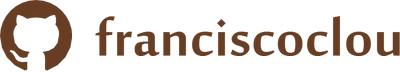
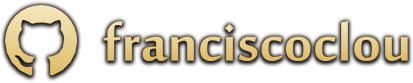
Make the cheats screen signature gold again
Builds before the ui_assets dependency fix shipped an older gold
watermark; the committed one was flat ink. Back to the game's title
style: gradient, outline and shadow.

diff --git a/scripts/make_ui_art.py b/scripts/make_ui_art.py
@@ -321,16 +321,31 @@ def github_mask(px):
 
 
 def watermark():
-    """In the ink of the parchment it sits on (the shop's item scroll)."""
+    """Gold like the game's own titles: gradient, dark outline, drop shadow."""
     mark_px, text_px = 72, 70
-    t = text("franciscoclou", text_px, INK, shadow=False)
-    mark = Image.new("RGBA", (mark_px, mark_px), INK + (255,))
-    mark.putalpha(github_mask(mark_px))
-    w = mark_px + 16 + t.width
-    h = max(mark_px, t.height)
+    t = text("franciscoclou", text_px, CREAM, gradient=GOLD)
+    m = github_mask(mark_px)
+    pad = max(3, mark_px // 10)
+    mark = Image.new("RGBA", (mark_px + 2 * pad, mark_px + 2 * pad))
+    o = Image.new("L", mark.size)
+    o.paste(m, (pad, pad))
+    o = o.filter(ImageFilter.MaxFilter(3)).filter(ImageFilter.GaussianBlur(mark_px / 40))
+    sh = Image.new("RGBA", mark.size, SHADOW + (0,))
+    sh.putalpha(o.point(lambda v: int(v * 0.9)))
+    mark.alpha_composite(sh, (0, 0))
+    mark.alpha_composite(sh, (0, max(1, mark_px // 30)))
+    fill = Image.new("RGBA", (mark_px, mark_px))
+    d = ImageDraw.Draw(fill)
+    for y in range(mark_px):
+        k = y / (mark_px - 1)
+        d.line([(0, y), (mark_px, y)], fill=tuple(round(c + (g - c) * k) for c, g in zip(CREAM, GOLD)) + (255,))
+    fill.putalpha(m)
+    mark.alpha_composite(fill, (pad, pad))
+    w = mark.width + 12 + t.width
+    h = max(mark.height, t.height)
     im = Image.new("RGBA", (w, h))
-    im.alpha_composite(mark, (0, (h - mark_px) // 2))
-    im.alpha_composite(t, (mark_px + 16, (h - t.height) // 2))
+    im.alpha_composite(mark, (0, (h - mark.height) // 2))
+    im.alpha_composite(t, (mark.width + 12, (h - t.height) // 2))
     im = im.crop(im.getbbox())
     im.save(out / "watermark.png", optimize=True)
     return im
